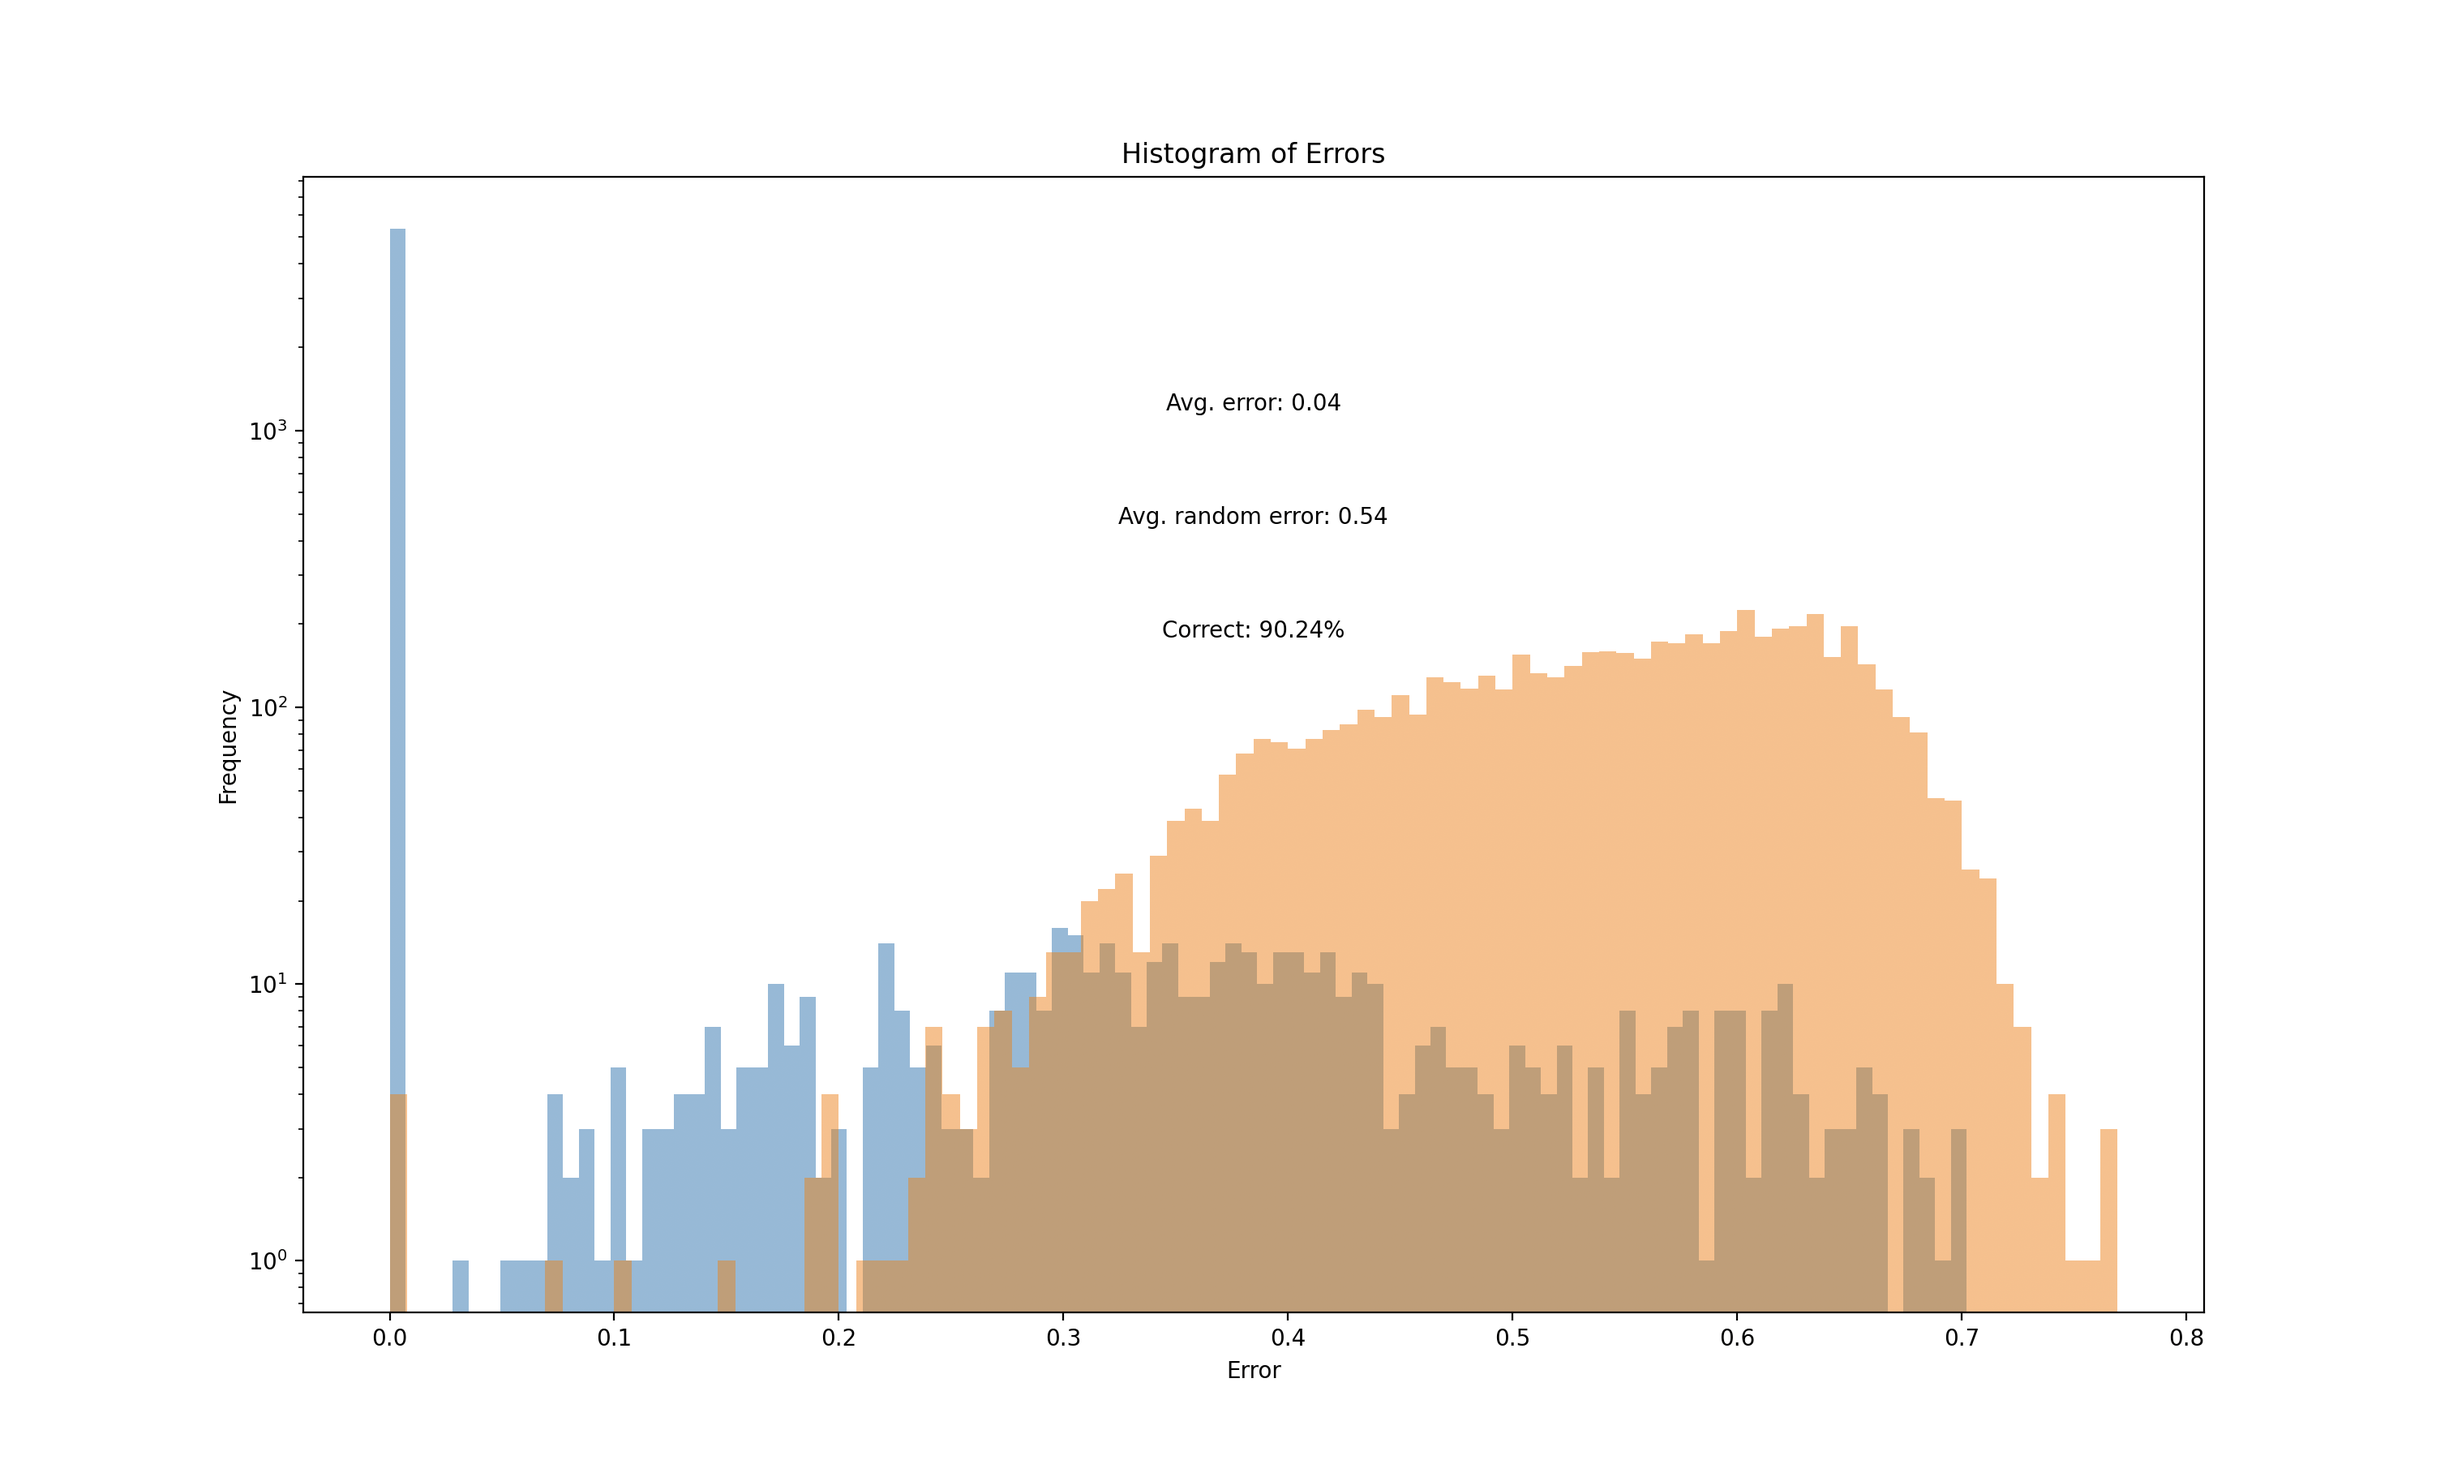
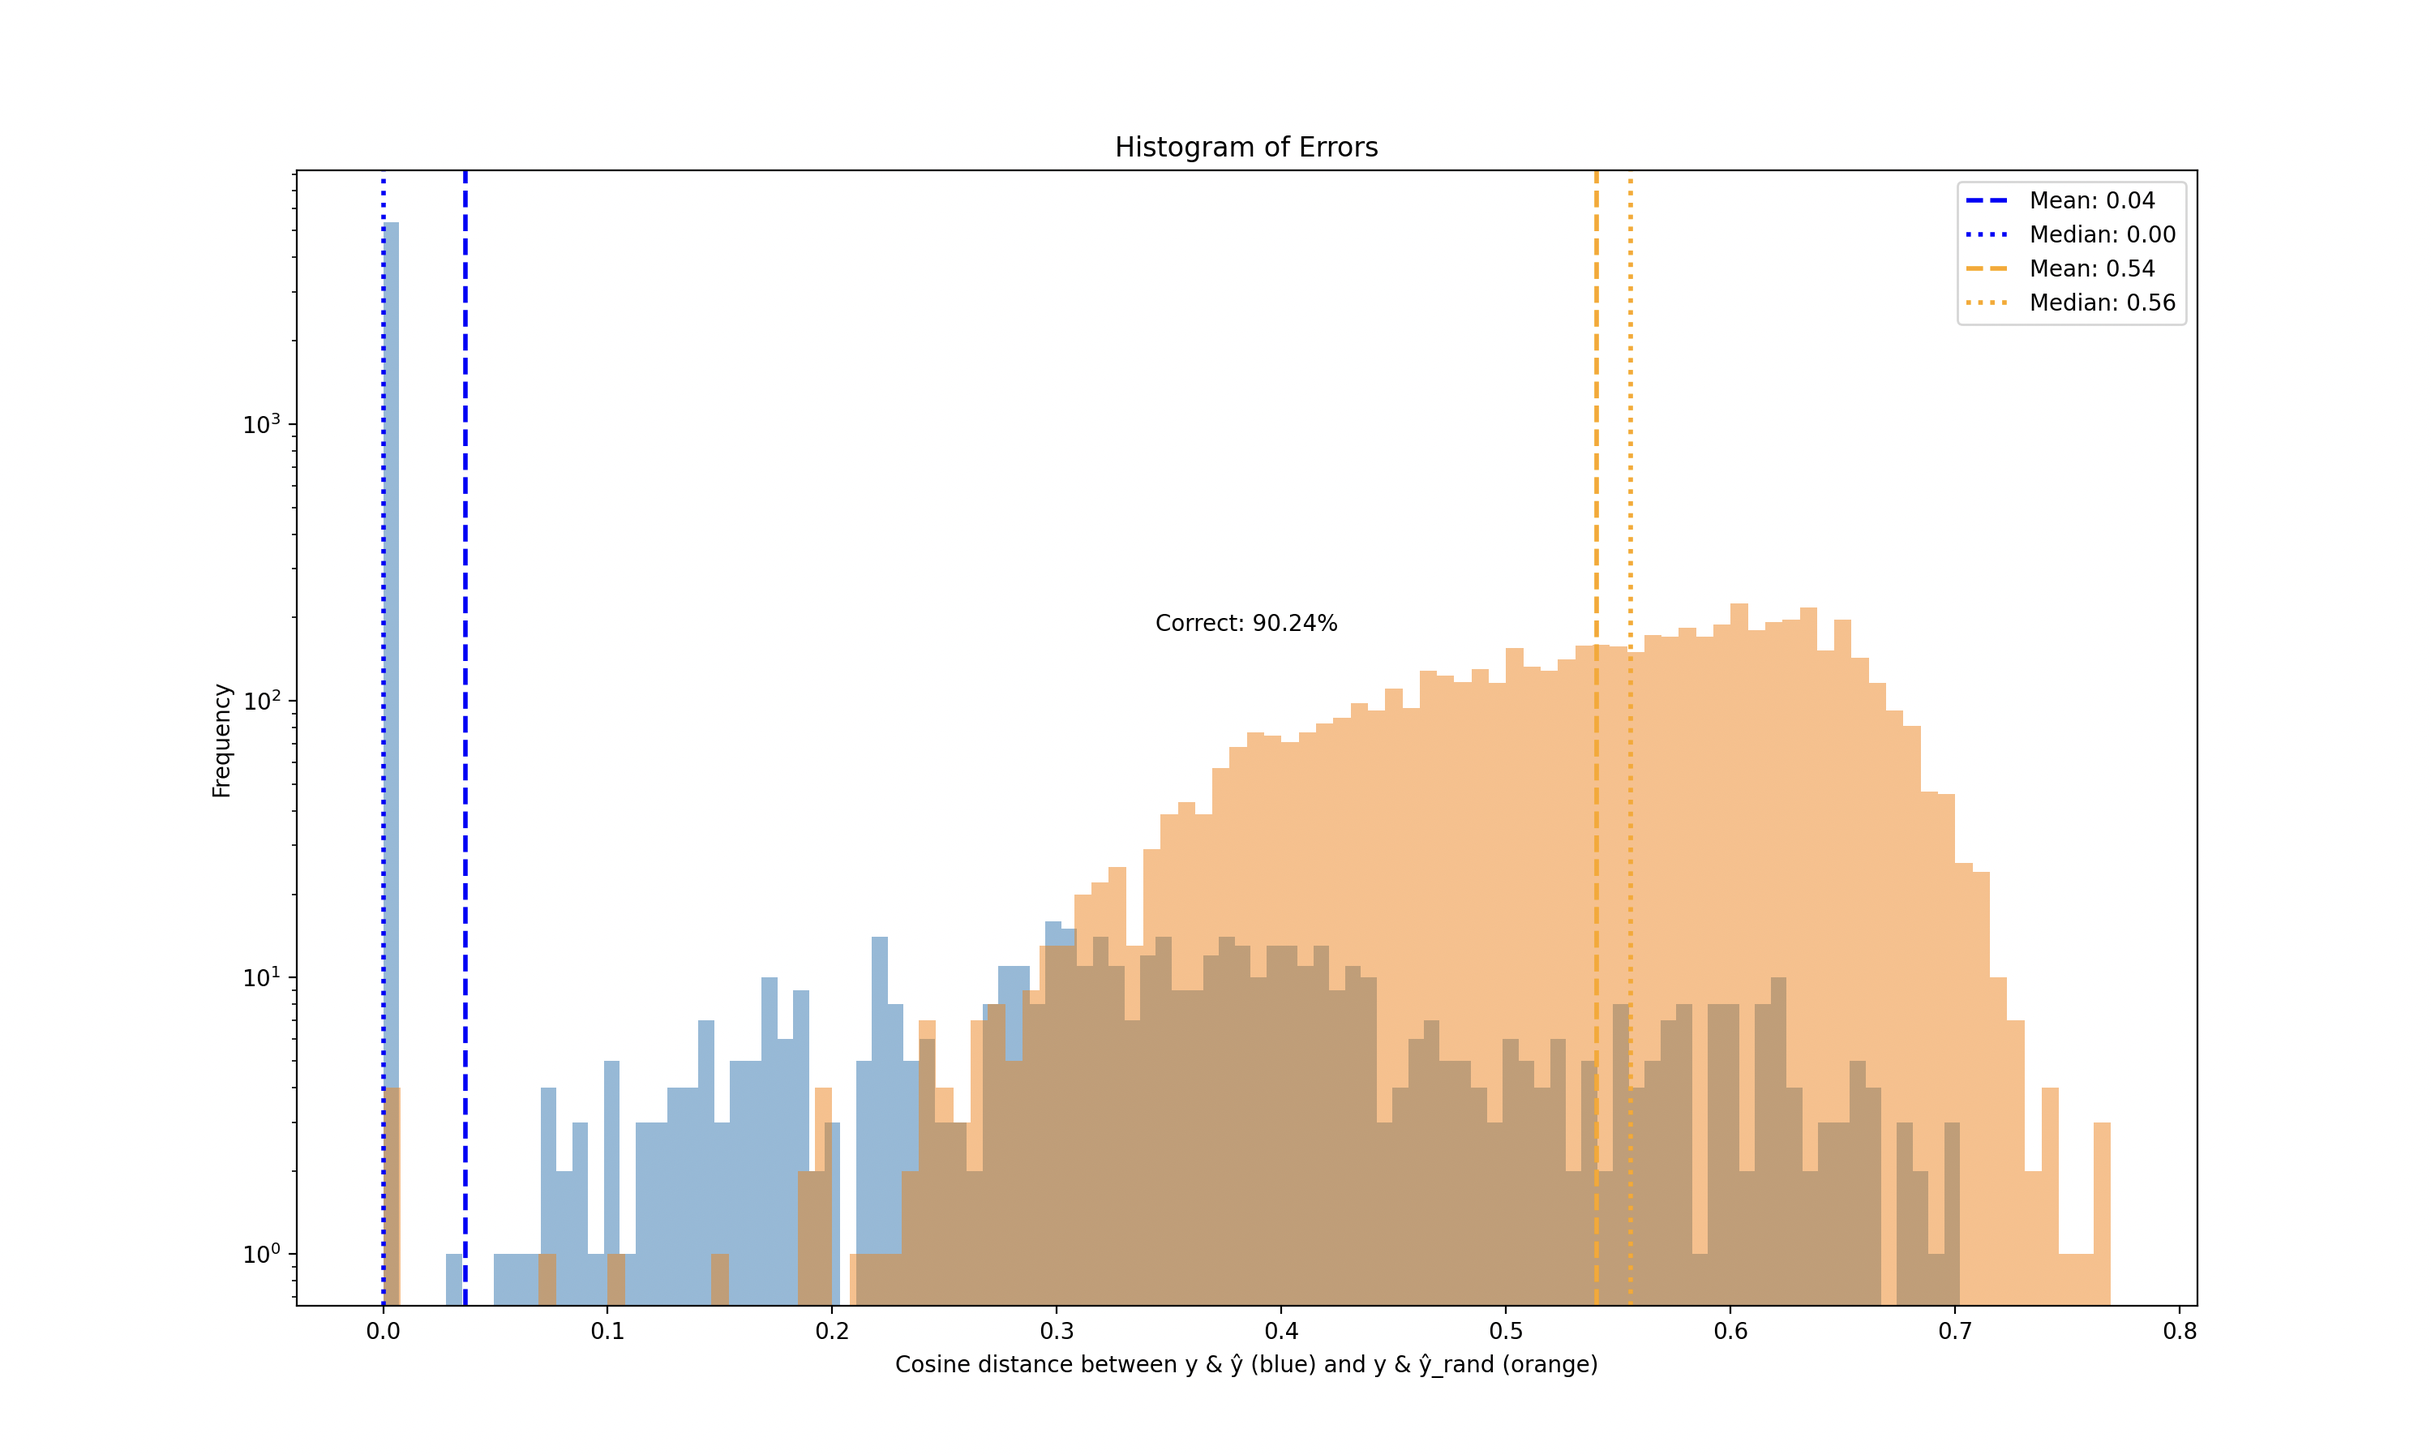
docs: better charts

diff --git a/README.md b/README.md
@@ -168,15 +168,14 @@ After increasing the number of users from 20 to 21, the RPS began to drop off, l
 
 ## Description
 
-A histogram representing 6000 demo items randomly sampled from a Taxonomy dataset that shows (in blue) the distribution of the cosine distances between the correct leaf node (`y`) in the hierarchy and the leaf node identified by the classifier (`y^`), and (in orange) the distribution of the cosine distances between the correct leaf node (`y`) and the randomly selected leaf node (`y_rand`). 6000 classifications were made in total, and 6000 random leaf nodes were selected.
+A histogram representing 6000 demo items randomly sampled from a Taxonomy dataset that shows (in blue) the distribution of the cosine distances between the correct leaf node (`y`) in the hierarchy and the leaf node identified by the classifier (`ŷ`), and (in orange) the distribution of the cosine distances between the correct leaf node (`y`) and the randomly selected leaf node (`ŷ_rand`). 6000 classifications were made in total, and 6000 random leaf nodes were selected.
 
 ![chart 1 log scale](chart_1_log.png)
-![chart 1 linear scale](chart_1_linear.png)
 
 ### Observations
 
-- The distribution of the cosine distances between `y` and `y^` is centered around `0`. This indicates that the classifier is able to identify the correct leaf node in the hierarchy with high accuracy.
-- The distribution of the cosine distances between `y` and `y_rand` is centered around `0.5`. This indicates that randomly selected leaf nodes are far from the correct leaf node in the hierarchy.
+- The median cosine distance between `y` and `ŷ` is ..., indicating that the classifier is able to identify the correct leaf node in the hierarchy with high accuracy.
+- The median cosine distance between `y` and `ŷ_rand` is ..., indicating that randomly selected leaf nodes are far from the correct leaf node in the hierarchy.
 
 ## Chart 2
 
@@ -185,7 +184,6 @@ A histogram representing 6000 demo items randomly sampled from a Taxonomy datase
 A histogram that shows (in blue) the distribution of the cosine distances between the correct leaf node (`y`) in the hierarchy and generated embedding of the input item (`v`).
 
 ![chart 2 log scale](chart_2_log.png)
-![chart 2 linear scale](chart_2_linear.png)
 
 # Cost Analysis
 
